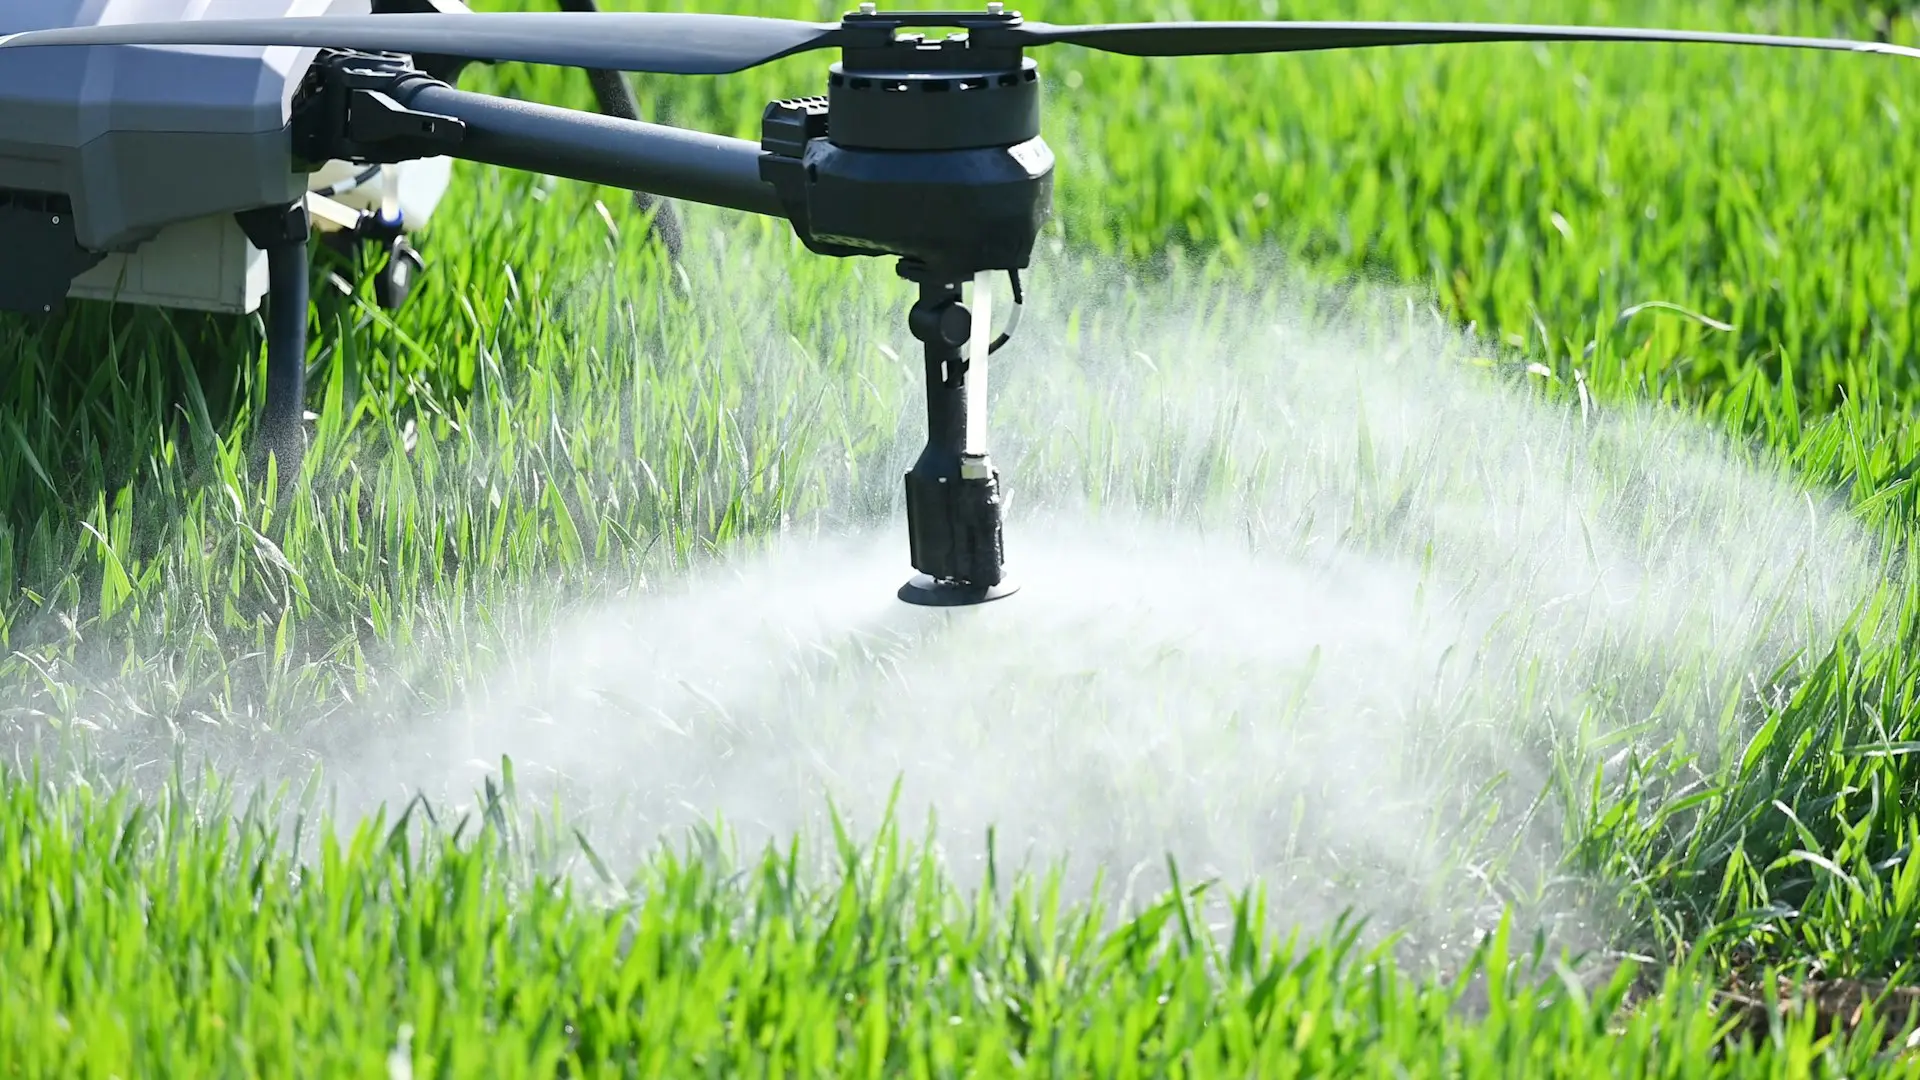
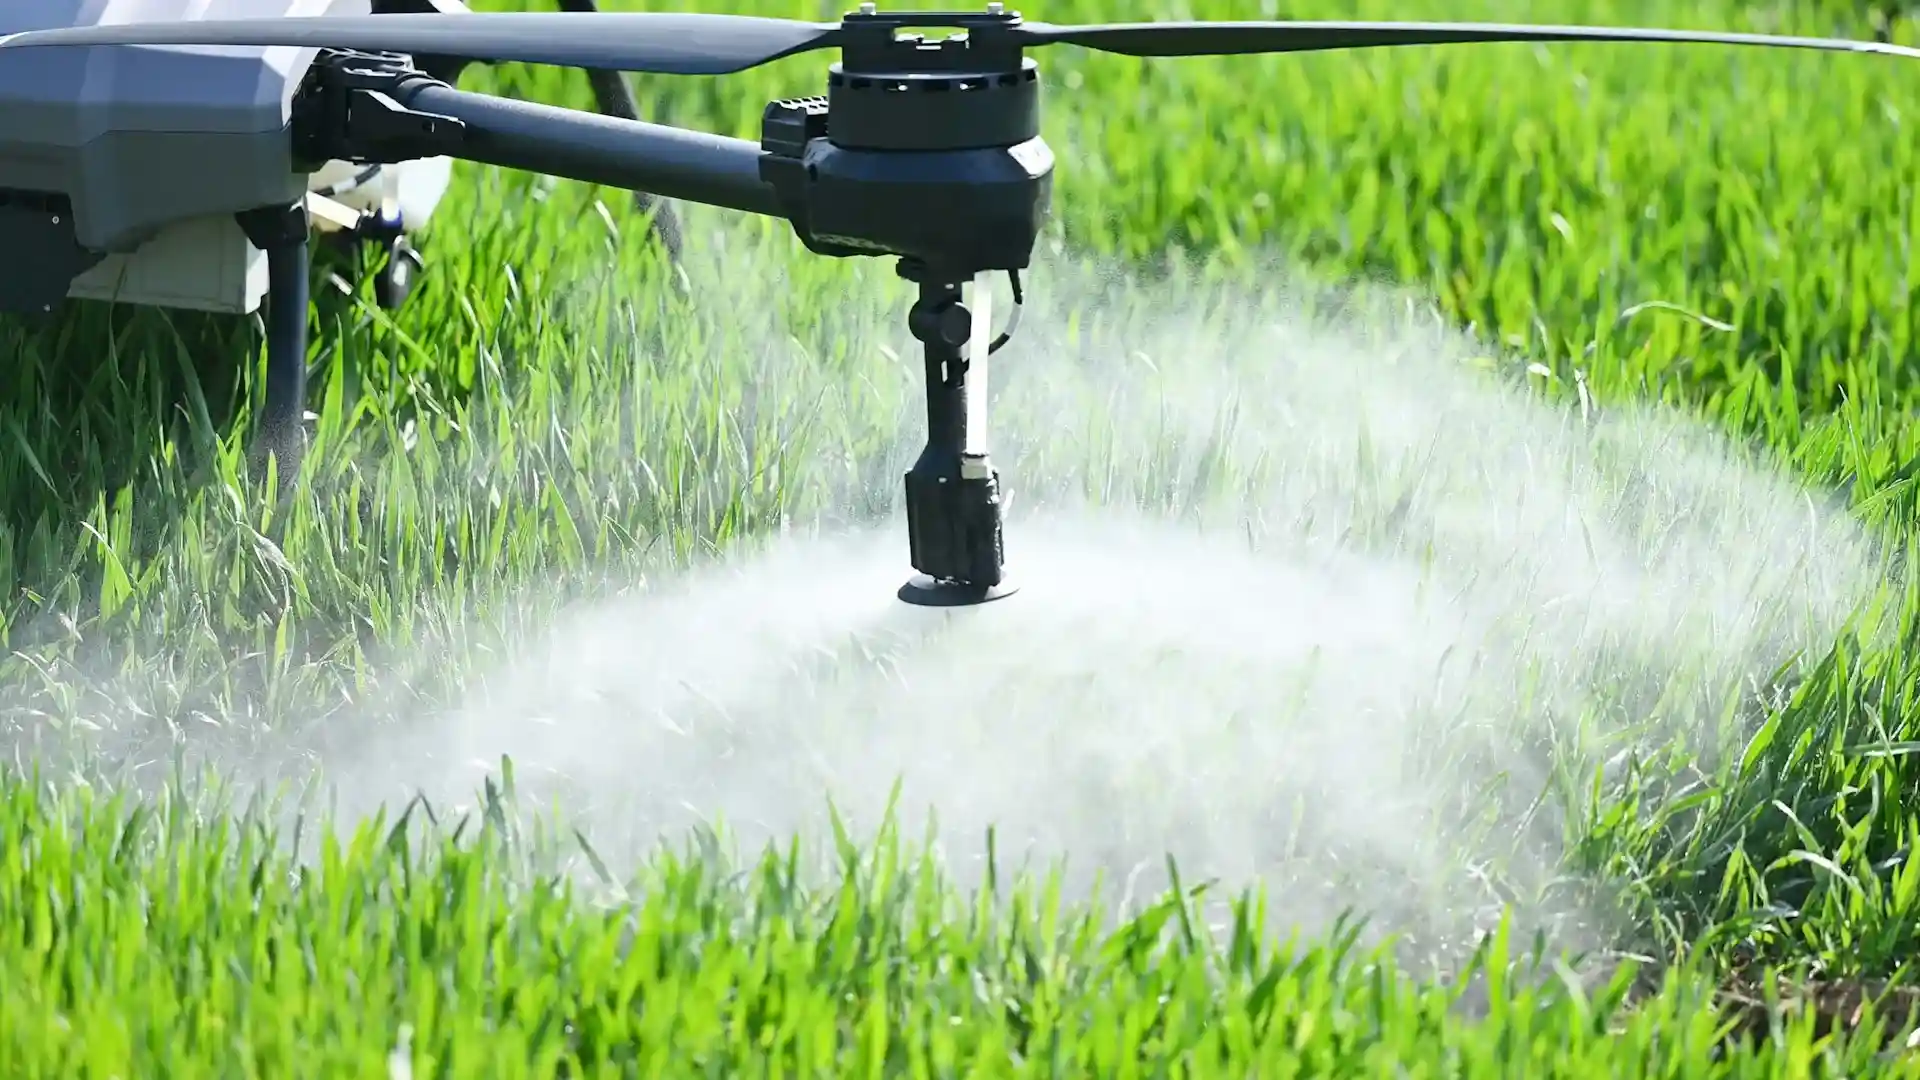
feat: update carousel images to use webp format for improved performance and remove obsolete jpg

diff --git a/packages/constants/src/images.ts b/packages/constants/src/images.ts
@@ -108,7 +108,7 @@ export const images = {
       image3: `${baseUrl.droneSpace}/carousel/home/image-3.webp`,
       image4: `${baseUrl.droneSpace}/carousel/home/image-4.webp`,
       image5: `${baseUrl.droneSpace}/carousel/home/image-5.webp`,
-      image6: `${baseUrl.droneSpace}/carousel/home/image-6.jpg`,
+      image6: `${baseUrl.droneSpace}/carousel/home/image-6.webp`,
     },
     shop: {
       image1: `${baseUrl.droneSpace}/carousel/shop/image-1.webp`,
